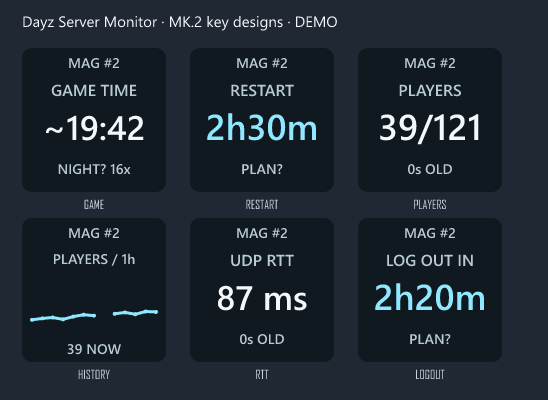
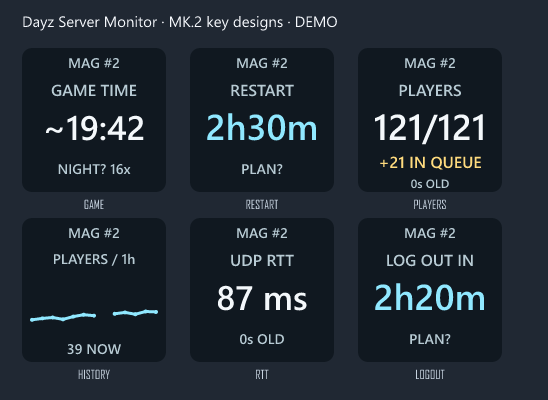
Show player queue separately in desktop cards and Stream Deck keys

Changed region(s): [[0.6825, 0.27, 0.8996, 0.36], [0.6825, 0.39, 0.8996, 0.48]]

diff --git a/src/MagDeer.App/MainWindow.xaml b/src/MagDeer.App/MainWindow.xaml
@@ -48,7 +48,7 @@
           <Grid Margin="0,14,0,0">
             <Grid.ColumnDefinitions><ColumnDefinition Width="2.1*"/><ColumnDefinition Width="1.25*"/><ColumnDefinition Width="1.25*"/></Grid.ColumnDefinitions>
             <Border Style="{StaticResource Card}" Margin="0,0,10,0" Padding="17"><StackPanel><TextBlock Text="{DynamicResource L.ServerStatus}" Style="{StaticResource Label}"/><StackPanel Orientation="Horizontal" Margin="0,10,0,0"><Ellipse x:Name="StatusDot" Width="8" Height="8" Fill="{DynamicResource WarningBrush}" Margin="0,0,8,0"/><TextBlock x:Name="StatusText" Text="QUERY UNAVAILABLE" FontWeight="SemiBold" FontSize="17"/></StackPanel><TextBlock x:Name="StatusHint" Text="{DynamicResource L.Waiting}" Foreground="{DynamicResource MutedBrush}" Margin="0,7,0,0" FontSize="12"/></StackPanel></Border>
-            <Border Grid.Column="1" Style="{StaticResource Card}" Margin="0,0,10,0" Padding="17"><StackPanel><TextBlock Text="{DynamicResource L.Players}" Style="{StaticResource Label}"/><TextBlock x:Name="PlayersText" Text="N/A" Foreground="{DynamicResource MetricBrush}" FontSize="31" FontWeight="SemiBold" Margin="0,7,0,0"/><TextBlock Text="{DynamicResource L.Capacity}" Foreground="{DynamicResource MutedBrush}" FontSize="11"/></StackPanel></Border>
+            <Border Grid.Column="1" Style="{StaticResource Card}" Margin="0,0,10,0" Padding="17"><local:PlayerCountDisplay x:Name="PlayerCounts"/></Border>
             <Border Grid.Column="2" Style="{StaticResource Card}" Padding="17"><StackPanel><TextBlock Text="UDP QUERY RTT" Style="{StaticResource Label}"/><TextBlock x:Name="RttText" Text="N/A" Foreground="{DynamicResource MetricBrush}" FontSize="31" FontWeight="SemiBold" Margin="0,7,0,0"/><TextBlock Text="{DynamicResource L.Challenge}" Foreground="{DynamicResource MutedBrush}" FontSize="11"/></StackPanel></Border>
           </Grid>
           <Grid Margin="3,12,3,0"><Grid.ColumnDefinitions><ColumnDefinition Width="*"/><ColumnDefinition Width="Auto"/></Grid.ColumnDefinitions><TextBlock x:Name="LastUpdateText" Text="—" Foreground="{DynamicResource MutedBrush}" FontSize="12"/><TextBlock Grid.Column="1" x:Name="PollText" Text="{DynamicResource L.Polling}" Foreground="{DynamicResource AccentBrush}" FontSize="12"/></Grid>

diff --git a/tests/MagDeer.ThemeTests/Program.cs b/tests/MagDeer.ThemeTests/Program.cs
@@ -22,6 +22,21 @@ internal static class Program
         var app = new App();
         app.InitializeComponent();
         Localization.Apply("en");
+        Test("Player card keeps queue separate from capacity and distinguishes zero from unavailable", () =>
+        {
+            var card = new PlayerCountDisplay();
+            var full = new ServerInfo("Fixture", "deerisle", "DayZ", 121, 121, "demo") { Queue = 21 };
+            var result = new QueryResult(DateTimeOffset.UtcNow, full, 87, QueryFailure.None, "fixture");
+            card.Update(result);
+            Assert(card.PlayerText == "121 / 121" && card.QueueText == "+21 in queue", "Queue was added to occupied slots");
+            Layout(card, 162, 140);
+            Assert(card.DesiredSize.Width <= 162 && card.DesiredSize.Height <= 140, "Player card exceeds its intended size");
+            card.Update(result with { Info = full with { Queue = 0 } }); Assert(card.QueueText == "Queue: 0", "Published zero was not shown");
+            card.Update(result with { Info = full with { Queue = null } }); Assert(card.QueueText == "Queue: N/A", "Missing queue became zero");
+            card.Update(result with { Failure = QueryFailure.Timeout }); Assert(card.PlayerText == "N/A" && card.QueueText == "Queue: N/A", "Failure retained old metrics");
+            Localization.Apply("cs"); card.Update(result); Assert(card.QueueText == "+21 ve frontě", "Queue translation failed");
+            Localization.Apply("en");
+        });
         Test("Embedded original T/R ICO contains seven usable sizes", () =>
         {
             var resource = Application.GetResourceStream(new Uri("pack://application:,,,/DayzServerMonitor;component/Assets/app.ico"))!;
@@ -163,7 +178,7 @@ internal static class Program
     private static void RenderComparison(string path)
     {
         Localization.Apply("en");
-        const int width = 480, height = 400;
+        const int width = 480, height = 460;
         var images = new List<BitmapSource>();
         foreach (var choice in ThemeManager.Choices)
         {
@@ -181,8 +196,18 @@ internal static class Program
             metrics.ColumnDefinitions.Add(new ColumnDefinition()); metrics.ColumnDefinitions.Add(new ColumnDefinition());
             foreach (var (title, value, column) in new[] { (L.Text("Players"), "87 / 121", 0), ("UDP QUERY RTT", "32 ms", 1) })
             {
-                var content = new StackPanel(); content.Children.Add(Text(title, "MutedBrush", 11));
-                var number = Text(value, "MetricBrush", 30); number.FontWeight = FontWeights.SemiBold; content.Children.Add(number);
+                var content = new StackPanel();
+                if (column == 0)
+                {
+                    var counts = new PlayerCountDisplay();
+                    counts.Update(new(DateTimeOffset.Parse("2026-10-30T00:00:00Z", CultureInfo.InvariantCulture), new ServerInfo("DEMO", "deerisle", "DayZ", 121, 121, "demo") { Queue = 21 }, 32, QueryFailure.None, "DEMO"));
+                    content.Children.Add(counts);
+                }
+                else
+                {
+                    content.Children.Add(Text(title, "MutedBrush", 11));
+                    var number = Text(value, "MetricBrush", 30); number.FontWeight = FontWeights.SemiBold; content.Children.Add(number);
+                }
                 var card = new Border { Style = (Style)Application.Current.FindResource("Card"), Padding = new Thickness(15, 9, 15, 9), Child = content,
                     Margin = column == 0 ? new Thickness(0, 0, 8, 0) : new Thickness(0) };
                 Grid.SetColumn(card, column); metrics.Children.Add(card);

diff --git a/src/MagDeer.Core/L.cs b/src/MagDeer.Core/L.cs
@@ -60,6 +60,10 @@ public static class L
         ["WarnNormal"] = ["Next restart follows the schedule. Availability is checked directly over UDP.", "Další restart podle plánu. Dostupnost ověřujeme přímo přes UDP.", "Następny restart według planu. Dostępność sprawdzana przez UDP.", "Nächster Neustart laut Plan. Verfügbarkeit wird direkt per UDP geprüft.", "Próximo reinicio según el horario. Disponibilidad comprobada por UDP."],
         ["ServerStatus"] = ["SERVER / QUERY STATUS", "STAV SERVERU / QUERY", "STAN SERWERA / QUERY", "SERVER- / QUERY-STATUS", "ESTADO DEL SERVIDOR / CONSULTA"],
         ["Players"] = ["PLAYERS", "HRÁČI", "GRACZE", "SPIELER", "JUGADORES"],
+        ["QueueWaiting"] = ["+{0} in queue", "+{0} ve frontě", "+{0} w kolejce", "+{0} in Warteschlange", "+{0} en cola"],
+        ["QueueEmpty"] = ["Queue: 0", "Fronta: 0", "Kolejka: 0", "Warteschlange: 0", "Cola: 0"],
+        ["QueueUnknown"] = ["Queue: N/A", "Fronta: N/A", "Kolejka: N/A", "Warteschlange: N/A", "Cola: N/A"],
+        ["QueueTip"] = ["Queue reported by the server at the last query. N/A means unavailable or not published.", "Fronta zveřejněná serverem při posledním dotazu. N/A znamená nedostupný nebo nezveřejněný údaj.", "Kolejka podana przez serwer przy ostatnim zapytaniu. N/A oznacza brak danych.", "Vom Server bei der letzten Abfrage gemeldete Warteschlange. N/A bedeutet keine verfügbaren Daten.", "Cola indicada por el servidor en la última consulta. N/A significa que no hay datos disponibles."],
         ["Capacity"] = ["connected / capacity", "obsazeno / kapacita", "online / pojemność", "belegt / Kapazität", "conectados / capacidad"],
         ["Challenge"] = ["including challenge", "včetně challenge", "z wymianą challenge", "inklusive Challenge", "incluye challenge"],
         ["Waiting"] = ["Waiting for first response", "Čekáme na první odpověď", "Oczekiwanie na pierwszą odpowiedź", "Warten auf erste Antwort", "Esperando la primera respuesta"],

diff --git a/src/MagDeer.App/PlayerCountDisplay.cs b/src/MagDeer.App/PlayerCountDisplay.cs
@@ -1,0 +1,29 @@
+namespace MagDeer.App;
+
+public sealed class PlayerCountDisplay : StackPanel
+{
+    private readonly TextBlock players = new() { Text = "N/A", FontSize = 31, FontWeight = FontWeights.SemiBold, Margin = new Thickness(0, 7, 0, 0) };
+    private readonly TextBlock queue = new() { FontSize = 17, FontWeight = FontWeights.SemiBold, Margin = new Thickness(0, 3, 0, 0), TextWrapping = TextWrapping.Wrap };
+    public string PlayerText => players.Text;
+    public string QueueText => queue.Text;
+    public PlayerCountDisplay()
+    {
+        var title = new TextBlock { Style = (Style)Application.Current.FindResource("Label") };
+        title.SetResourceReference(TextBlock.TextProperty, "L.Players");
+        players.SetResourceReference(TextBlock.ForegroundProperty, "MetricBrush");
+        var capacity = new TextBlock { FontSize = 11 };
+        capacity.SetResourceReference(TextBlock.TextProperty, "L.Capacity");
+        capacity.SetResourceReference(TextBlock.ForegroundProperty, "MutedBrush");
+        queue.SetResourceReference(TextBlock.ToolTipProperty, "L.QueueTip");
+        Children.Add(title); Children.Add(players); Children.Add(queue); Children.Add(capacity);
+        Update(null);
+    }
+    public void Update(QueryResult? result)
+    {
+        var info = result is { Success: true } ? result.Info : null;
+        players.Text = info is null ? "N/A" : $"{info.Players} / {info.MaxPlayers}";
+        int? waiting = info?.Queue is >= 0 and <= 10000 ? info.Queue : null;
+        queue.Text = waiting is > 0 ? L.Text("QueueWaiting", waiting.Value) : waiting == 0 ? L.Text("QueueEmpty") : L.Text("QueueUnknown");
+        queue.SetResourceReference(TextBlock.ForegroundProperty, waiting is > 0 ? "WarningBrush" : waiting == 0 ? "MutedBrush" : "MetricBrush");
+    }
+}

diff --git a/src/MagDeer.App/MainWindow.xaml.cs b/src/MagDeer.App/MainWindow.xaml.cs
@@ -208,7 +208,7 @@ public partial class MainWindow : Window
             ServerStatus.RestartExpected => L.Text("RestartNotProven"),
             _ => tracker.Failures == 0 ? L.Text("Waiting") : L.Text("QueryFailures", tracker.Failures)
         };
-        PlayersText.Text = tracker.Latest is { Success: true, Info: { } info } ? $"{info.Players} / {info.MaxPlayers}" : "N/A";
+        PlayerCounts.Update(tracker.Latest);
         RttText.Text = tracker.Latest is { Success: true, RttMs: { } rtt } ? $"{rtt:0} ms" : "N/A";
         LastUpdateText.Text = tracker.LastSuccess is { } success ? L.Text("LastSuccess", RestartSchedule.CzechTime(success).ToString("d MMM HH:mm:ss", L.Culture)) : L.Text("NoSuccess");
         int interval = schedule.PollInterval(settings, now, tracker.RestartGap && tracker.ConfirmedQueryGap);

diff --git a/docs/STREAM-DECK.md b/docs/STREAM-DECK.md
@@ -1,6 +1,6 @@
 # Stream Deck MK.2
 
-The plugin uses the official Elgato SDK and is designed for the MK.2's 72 × 72-pixel keys. It works alongside Dayz Server Monitor 1.7.0 or later on Windows 10/11 x64. Stream Deck software **7.1 or later**, including its Node.js 24 runtime, is required. Users do not need to install Node.js separately.
+The plugin uses the official Elgato SDK and is designed for the MK.2's 72 × 72-pixel keys. It works alongside Dayz Server Monitor 1.7.1 or later on Windows 10/11 x64. Stream Deck software **7.1 or later**, including its Node.js 24 runtime, is required. Users do not need to install Node.js separately.
 
 ![English key designs, enlarged, example data](images/stream-deck-keys.png)
 
@@ -10,7 +10,7 @@ These are enlarged renders of the actual key images with demo values, not a phot
 
 1. Download and unpack the Windows ZIP. Carry over your config.json and data folder if upgrading. Keep the executable in a stable, writable folder.
 2. Start DayzServerMonitor.exe yourself when convenient and select the server to watch. The plugin never starts the monitor or brings its window forward. The monitor can be minimized.
-3. Double-click **Dayz-Server-Monitor-1.7.0.streamDeckPlugin** and accept the installation in Stream Deck. The file is also inside the Windows ZIP.
+3. Double-click **Dayz-Server-Monitor-1.7.1.streamDeckPlugin** and accept the installation in Stream Deck. The file is also inside the Windows ZIP.
 4. Find **Dayz Server Monitor** in the Stream Deck action list. Drag **Cycle server information** onto a key.
 5. Leave the action's default artwork/title in place. A custom image in Stream Deck can override the plugin's changing display.
 
@@ -28,7 +28,7 @@ All keys attached to the same monitor share its cached data and manual refresh g
 |---|---|
 | Game time | Published game clock, optionally extrapolated as ~HH:mm; DAY? / NIGHT? and current assumed speed |
 | Restart | Time until the next configured restart; PLAN? while the schedule is unconfirmed |
-| Players | Players / capacity, published queue when nonzero, otherwise age of the query |
+| Players | Players / capacity plus a separate queue line, e.g. 121/121 and +21 IN QUEUE; age/cooldown below |
 | History | One hour of player samples from the current monitor session, with gaps for missing replies |
 | UDP RTT | Query round-trip time and age of the query |
 | Logout | Time until the configured logout reminder, or LOG OUT NOW |
@@ -64,3 +64,5 @@ The Node tests include the actual bundled official-SDK plugin connected to a sim
 The CLI may report that the project URL returns 404 because this GitHub repository is private. That warning does not make the installer public or submit it to Marketplace. No Marketplace submission or Maker Agreement acceptance is performed by this project.
 
 Original code and the T/R icon are MIT-licensed. Elgato SDK and bundled runtime dependency licenses are preserved in the installer and docs/licenses/STREAMDECK-RUNTIME-NOTICES.md. Build tools are separate: the SVG renderer @resvg/resvg-js is MPL-2.0 and is used only during building/testing; its binary is not shipped in the plugin. See [names and trademarks](TRADEMARKS.md).
+
+The queue is separate from occupied slots: 121/121 +21 means 121 players in game and 21 waiting. A published zero shows QUEUE 0; an absent field, failed query or stale sample shows QUEUE N/A. Queue counts reflect the last query, not continuous live measurement. The player-history graph tracks occupied slots only.

diff --git a/docs/VALIDATION.md b/docs/VALIDATION.md
@@ -1,4 +1,4 @@
-# Validation · 1.7.0
+# Validation · 1.7.1
 
 The release is built for Windows x64 using .NET SDK 8.0.427. The automated checks cover the areas below. They do not establish multi-day reliability or confirm any provider's restart schedule.
 
@@ -30,10 +30,14 @@ The app does not read the game process, memory or chat. UDP query replies cannot
 
 ## Stream Deck release checks
 
-All 42 core checks, 10 WPF checks and 9 Node/plugin checks passed. The additional core checks exercise DayZ clock/queue keywords, the real named-pipe protocol, shared cooldown, unsupported-command rejection, discovery cleanup and bounded shutdown. The full A2S fixture also checks that extended clock fields reach ServerInfo without affecting player metrics.
+All 42 core checks, 11 WPF checks and 10 Node/plugin checks passed. The additional core checks exercise DayZ clock/queue keywords, the real named-pipe protocol, shared cooldown, unsupported-command rejection, discovery cleanup and bounded shutdown. The full A2S fixture also checks that extended clock fields reach ServerInfo without affecting player metrics.
 
 The plugin tests run the actual official-SDK bundle against a local simulated Stream Deck WebSocket host and a C# console bridge fixture. They cover live state delivery, short press, one-second hold, pinned keys, the cooldown shared across keys and MONITOR OFF after fixture shutdown. Separate checks cover assumed day/night boundary crossing, midnight, missing/invalid fields, N/A/stale data, optional restart overrides, SVG escaping, history gaps and real 72-pixel rasterization. No desktop Window or real Stream Deck app is opened. The fixture is isolated from real monitor discovery files and does not query a game server.
 
 Elgato CLI 1.10.4 validated and packaged the plugin. Its only warning is the private GitHub project URL returning 404 to anonymous requests. The installer has not been submitted to Marketplace. Physical MK.2 installation, actual key-lens readability, Stream Deck sleep/reconnect, cross-account ACL denial and long-running resource use are not claimed as tested.
 
 A real MAG DEER query on 30 October 2026 at 01:44:59 Prague time confirmed the final parser: 47/121 players, published game clock 02:52, base multiplier 4, extra night multiplier 4, queue 0 and UDP RTT about 134 ms. The first live check exposed a placeholder legacy AppID; the parser now also uses the extended Steam GameID and a regression fixture covers that form. This is one historical query, not a guarantee of present values or accurate sunlight prediction.
+
+## Queue display · 1.7.1
+
+The real WPF player card now distinguishes 121/121 plus 21 waiting, published zero, missing queue data and failed queries, with localized labels. Stream Deck rendering keeps the queue visible while a refresh countdown is shown, without adding it to occupied slots or graph samples. The updated English previews render both cases without desktop windows. Total: 42 core, 11 WPF and 10 plugin checks.

diff --git a/README.cs.md b/README.cs.md
@@ -4,7 +4,7 @@ Malá aplikace pro Windows, kterou si můžeš nechat otevřenou na druhém moni
 
 ## Spuštění
 
-V Releases stáhni `Dayz-Server-Monitor-1.7.0-win-x64.zip`, rozbal ho do zapisovatelné složky a spusť `DayzServerMonitor.exe`. Funguje na Windows 10/11 x64. .NET je součástí balíčku, správce ani API klíč nepotřebuješ.
+V Releases stáhni `Dayz-Server-Monitor-1.7.1-win-x64.zip`, rozbal ho do zapisovatelné složky a spusť `DayzServerMonitor.exe`. Funguje na Windows 10/11 x64. .NET je součástí balíčku, správce ani API klíč nepotřebuješ.
 
 Vedle EXE se ukládá `config.json`, historie je ve složce `data`. Při aktualizaci starou aplikaci zavři a obojí si ponech. V **Settings → Display** můžeš přepnout angličtinu na češtinu a vybrat světlý, tmavý, oranžový nebo šedozelený motiv.
 
@@ -30,8 +30,10 @@ Je to hobby projekt vytvořený pomocí **vibe codingu s podporou AI**. Nápad a
 
 ## Stream Deck a licence
 
-Součástí vydání je plugin pro **Stream Deck MK.2**. Dvojklikem nainstaluj `Dayz-Server-Monitor-1.7.0.streamDeckPlugin` a přetáhni akci Cycle server information na klávesu. Krátký stisk střídá údaje, podržení jednu sekundu obnoví dotaz se společnou 20sekundovou ochranou. Akce Pinned server information udrží jeden vybraný pohled na klávese; můžeš si tak připravit více kláves vedle sebe. Výchozí popisky a náhledy jsou anglicky. Monitor musí běžet, může být minimalizovaný; plugin jej sám neotevírá. [Podrobný návod a omezení](docs/STREAM-DECK.md).
+Součástí vydání je plugin pro **Stream Deck MK.2**. Dvojklikem nainstaluj `Dayz-Server-Monitor-1.7.1.streamDeckPlugin` a přetáhni akci Cycle server information na klávesu. Krátký stisk střídá údaje, podržení jednu sekundu obnoví dotaz se společnou 20sekundovou ochranou. Akce Pinned server information udrží jeden vybraný pohled na klávese; můžeš si tak připravit více kláves vedle sebe. Výchozí popisky a náhledy jsou anglicky. Monitor musí běžet, může být minimalizovaný; plugin jej sám neotevírá. [Podrobný návod a omezení](docs/STREAM-DECK.md).
 
 Vlastní zdrojový kód i ikona T/R jsou pod [licencí MIT](LICENSE). Licence přibaleného .NET zůstávají zachované v [oznámeních třetích stran](THIRD_PARTY_NOTICES.md). Jde o nezávislý komunitní nástroj.
 
 Názvy DayZ, MAG, Sunnyvale a Stream Deck slouží k identifikaci hry, serverů a kompatibilního zařízení. Nejsme jejich oficiální produkt a MIT se nevztahuje na jejich značky. Používáme vlastní ikonu T/R. [Podrobnosti ke značkám](docs/TRADEMARKS.md).
+
+Karta hráčů i klávesa Stream Decku zobrazují frontu samostatně: **121/121 +21 ve frontě** znamená 121 hráčů ve hře a 21 čekajících. Nula se ukáže jen tehdy, když ji server skutečně zveřejní; chybějící údaj nebo chyba dotazu znamená N/A.

diff --git a/README.md b/README.md
@@ -10,7 +10,7 @@ It started with MAG DEER, but you can select another server or save your own. Th
 
 ## Get it running
 
-Download `Dayz-Server-Monitor-1.7.0-win-x64.zip` from Releases, unpack it into a folder you can write to, then run `DayzServerMonitor.exe`. It works on Windows 10/11 x64. No separate .NET installation, account, API key or administrator access is needed.
+Download `Dayz-Server-Monitor-1.7.1-win-x64.zip` from Releases, unpack it into a folder you can write to, then run `DayzServerMonitor.exe`. It works on Windows 10/11 x64. No separate .NET installation, account, API key or administrator access is needed.
 
 Settings are saved beside the EXE in `config.json`. History is kept in `data`. When updating, close the old copy and keep those two items. For a separate data folder, use:
 
@@ -69,3 +69,5 @@ This is a hobby project built with AI-assisted **vibe coding**. The idea and req
 ## License
 
 The source and T/R icon use the [MIT license](LICENSE). Bundled runtime notices are included separately in [third-party notices](THIRD_PARTY_NOTICES.md). This is an independent community project, with no official affiliation to Bohemia Interactive, MAG, Sunnyvale, Valve or Elgato. Product/server names are descriptive references, not assets licensed by our MIT license. [Names and trademarks](docs/TRADEMARKS.md).
+
+Player counts keep the waiting queue separate: **121/121 +21 in queue** means 121 players in game and 21 waiting. The desktop card and Stream Deck key show a published zero as 0, and missing/unavailable queue data as N/A.
